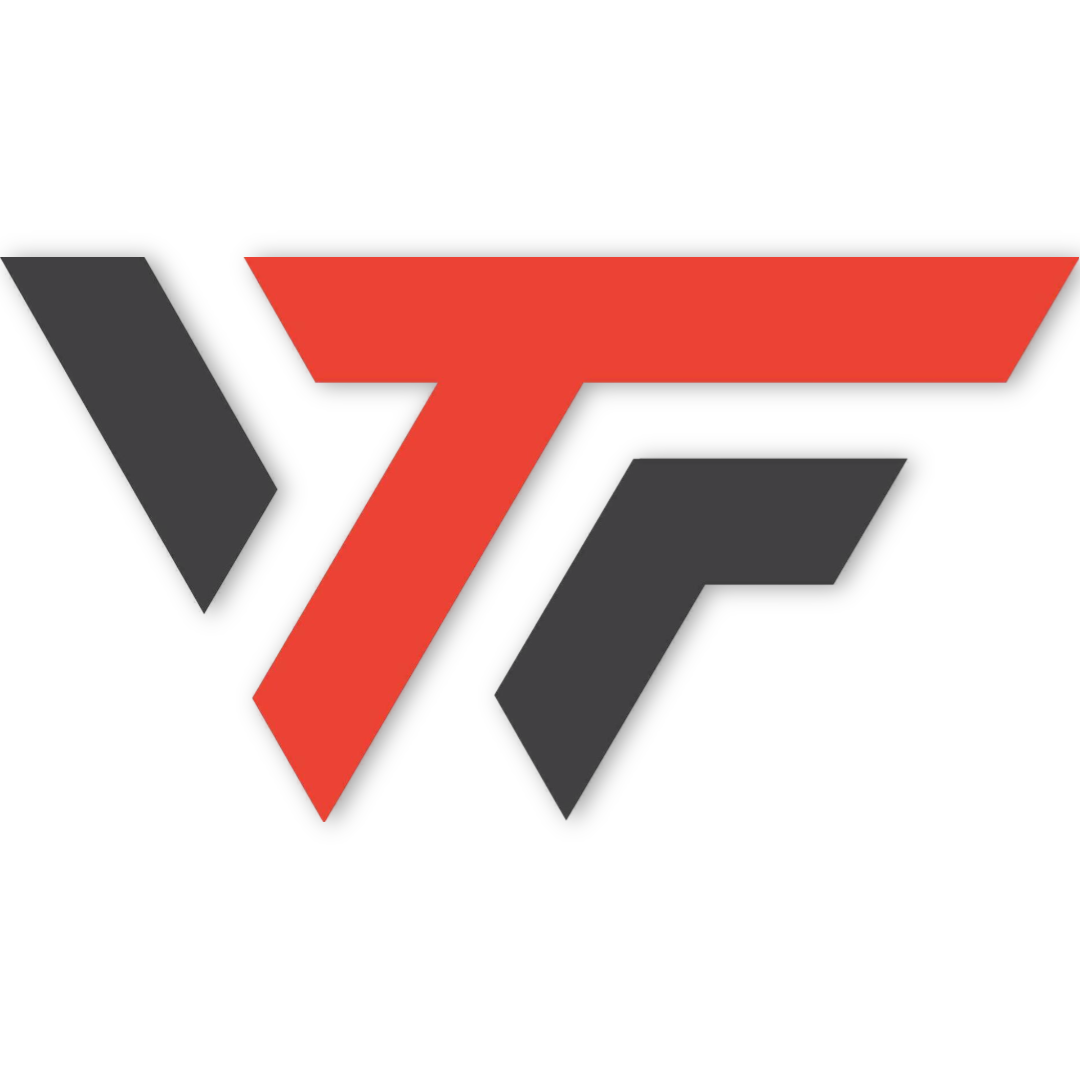
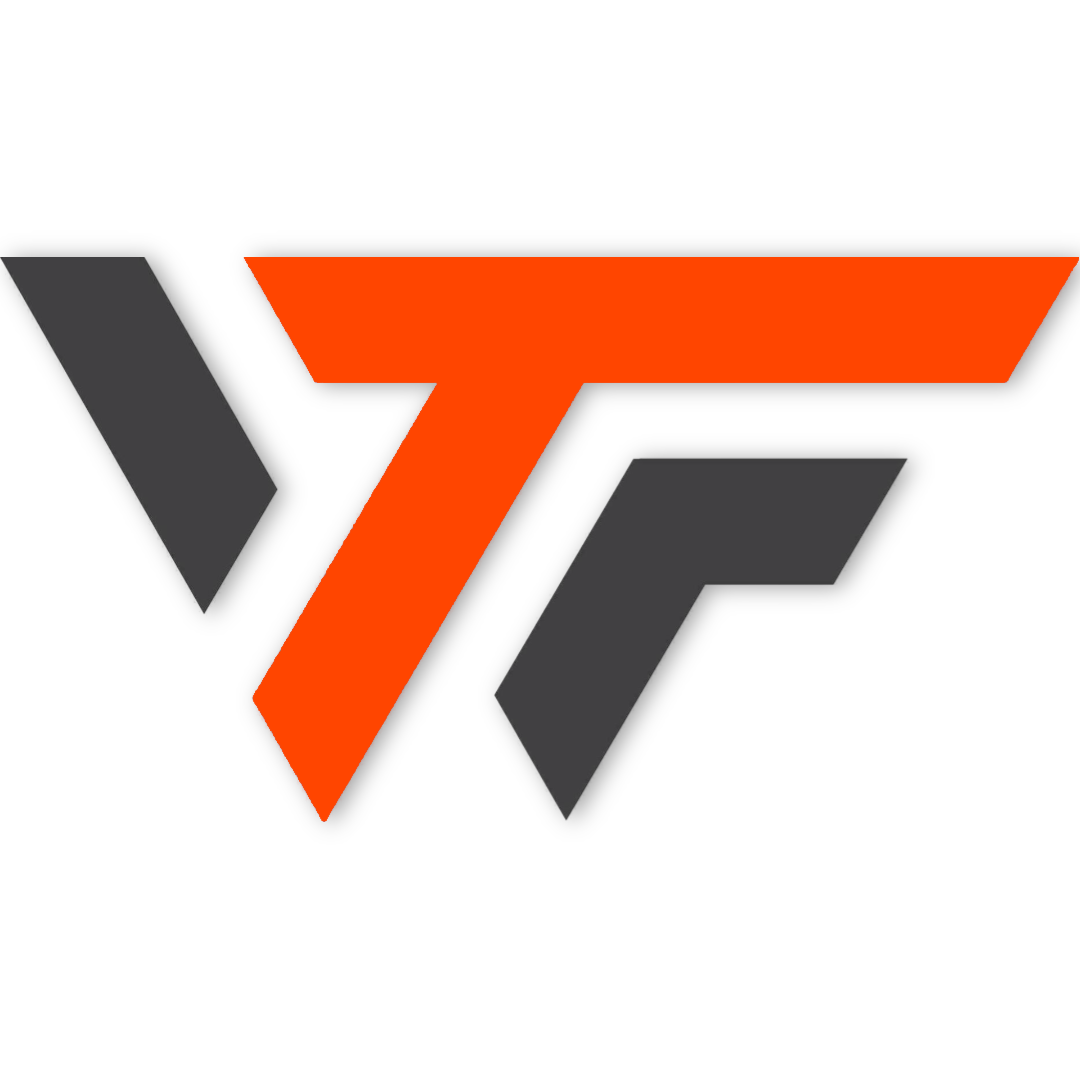
Header

Changed region(s): [[0.2139, 0.2139, 1.0, 0.7639]]

diff --git a/src/app/public-pages/header/header.component.html b/src/app/public-pages/header/header.component.html
@@ -1,0 +1,60 @@
+<header class="mat-header">
+  <mat-toolbar>
+    <!-- Logo -->
+    <a href="#"><img src="img/wft.png" class="logo" /></a>
+
+    <!-- Spacer to push navigation to the right -->
+    <span class="spacer"></span>
+
+    <!-- Navigation Links -->
+    <nav class="nav-links" fxHide fxShow.gt-sm>
+      <button mat-button [routerLink]="'/home'" routerLinkActive="active">
+        Home
+      </button>
+      <button mat-button [routerLink]="'/aboutus'" routerLinkActive="active">
+        About Us
+      </button>
+      <button mat-button [routerLink]="'/services'" routerLinkActive="active">
+        Services
+      </button>
+      <button mat-button [routerLink]="'/bmi'" routerLinkActive="active">
+        BMI Calculator
+      </button>
+      <button mat-button [routerLink]="'/ourteam'" routerLinkActive="active">
+        Our Team
+      </button>
+      <button mat-button [routerLink]="'/pricing'" routerLinkActive="active">
+        Pricing
+      </button>
+      <button mat-button [routerLink]="'/contactus'" routerLinkActive="active">
+        Contact Us
+      </button>
+      <button mat-button [routerLink]="'/login'" routerLinkActive="active">
+        Login
+      </button>
+    </nav>
+
+    <!-- Menu Icon for smaller devices -->
+    <button
+      mat-icon-button
+      class="menu-icon"
+      aria-label="Menu"
+      fxShow
+      fxHide.gt-sm
+      [matMenuTriggerFor]="menu"
+    >
+      <mat-icon>menu</mat-icon>
+    </button>
+  </mat-toolbar>
+</header>
+
+<mat-menu #menu="matMenu">
+  <button mat-menu-item [routerLink]="'/home'">Home</button>
+  <button mat-menu-item [routerLink]="'/aboutus'">About Us</button>
+  <button mat-menu-item [routerLink]="'/services'">Services</button>
+  <button mat-menu-item [routerLink]="'/bmi'">BMI Calculator</button>
+  <button mat-menu-item [routerLink]="'/ourteam'">Our Team</button>
+  <button mat-menu-item [routerLink]="'/pricing'">Pricing</button>
+  <button mat-menu-item [routerLink]="'/contactus'">Contact Us</button>
+  <button mat-menu-item [routerLink]="'/login'">Login</button>
+</mat-menu>

diff --git a/src/app/app.routes.ts b/src/app/app.routes.ts
@@ -1,3 +1,25 @@
 import { Routes } from '@angular/router';
+import { HomeComponent } from './public-pages/home/home.component';
+import { AboutUsComponent } from './public-pages/about-us/about-us.component';
+import { ServicesComponent } from './public-pages/services/services.component';
+import { BmiComponent } from './public-pages/bmi/bmi.component';
+import { OurTeamComponent } from './public-pages/our-team/our-team.component';
+import { PricingComponent } from './public-pages/pricing/pricing.component';
+import { ContactUsComponent } from './public-pages/contact-us/contact-us.component';
+import { LoginComponent } from './public-pages/login/login.component';
+import { RegisterComponent } from './public-pages/register/register.component';
+import { PageNotFoundComponent } from './public-pages/page-not-found/page-not-found.component';
 
-export const routes: Routes = [];
+export const routes: Routes = [
+  { path: '', redirectTo: '/home', pathMatch: 'full' },
+  { path: 'home', component: HomeComponent },
+  { path: 'aboutus', component: AboutUsComponent },
+  { path: 'services', component: ServicesComponent },
+  { path: 'bmi', component: BmiComponent },
+  { path: 'ourteam', component: OurTeamComponent },
+  { path: 'pricing', component: PricingComponent },
+  { path: 'contactus', component: ContactUsComponent },
+  { path: 'login', component: LoginComponent },
+  { path: 'register', component: RegisterComponent },
+  { path: '**', component: PageNotFoundComponent },
+];

diff --git a/src/app/public-pages/header/header.component.ts b/src/app/public-pages/header/header.component.ts
@@ -1,0 +1,36 @@
+import { CommonModule } from '@angular/common';
+import { Component, ViewChild } from '@angular/core';
+import { MatMenuModule, MatMenuTrigger } from '@angular/material/menu';
+import { MatIconModule } from '@angular/material/icon';
+import { RouterModule } from '@angular/router';
+import { MatToolbarModule } from '@angular/material/toolbar';
+import { MatButtonModule } from '@angular/material/button';
+import { BreakpointObserver } from '@angular/cdk/layout';
+@Component({
+  selector: 'app-header',
+  imports: [
+    CommonModule,
+    MatMenuModule,
+    MatIconModule,
+    RouterModule,
+    MatToolbarModule,
+    MatButtonModule,
+  ],
+  templateUrl: './header.component.html',
+  styleUrl: './header.component.css',
+})
+export class HeaderComponent {
+  @ViewChild(MatMenuTrigger) menuTrigger!: MatMenuTrigger;
+
+  constructor(private breakpointObserver: BreakpointObserver) {
+    // Listen for changes in the viewport size
+    this.breakpointObserver
+      .observe(['(min-width: 961px)'])
+      .subscribe((result) => {
+        if (result.matches && this.menuTrigger) {
+          // Close the menu if screen size exceeds 960px
+          this.menuTrigger.closeMenu();
+        }
+      });
+  }
+}

diff --git a/src/app/public-pages/header/header.component.css b/src/app/public-pages/header/header.component.css
@@ -1,0 +1,64 @@
+.mat-header {
+  margin-top: 1rem;
+  display: flex;
+  flex-direction: column;
+  z-index: 1000;
+}
+
+mat-toolbar {
+  display: flex;
+  justify-content: space-between;
+  align-items: center;
+  background: transparent;
+  padding: 0 16px;
+}
+
+.logo {
+  max-width: 150px; /* Adjust logo size */
+  height: auto;
+  padding-left: 3rem;
+}
+
+.spacer {
+  flex: 1; /* Push nav links to the right */
+}
+
+.nav-links button {
+  text-transform: uppercase;
+}
+
+.menu-icon {
+  display: none;
+}
+
+.active {
+  background-color: var(--bg-primary);
+}
+
+/* Responsive Design */
+@media (max-width: 960px) {
+  .nav-links {
+    display: none; /* Hide navigation links on small devices */
+  }
+
+  .menu-icon {
+    display: block;
+    margin-right: 2.5rem;
+    position: relative;
+  }
+
+  /* Increase the size of the mat-icon */
+  .menu-icon .mat-icon {
+    position: absolute;
+    transform: translate(-2rem, -1rem);
+    font-size: 32px;
+    width: 4rem;
+    height: 4rem;
+  }
+  ::ng-deep .mat-mdc-menu-content {
+    background-color: var(--bg-main);
+  }
+  .mat-mdc-menu-item:hover {
+    background-color: var(--bg-primary) !important;
+  }
+}

diff --git a/src/styles.css b/src/styles.css
@@ -3,8 +3,31 @@
   margin: 0;
   padding: 0;
   box-sizing: border-box;
-}
-html {
   font-family: "Poppins", sans-serif;
+  /* font-size: 62.5%; */
+  list-style: none;
+  text-decoration: none;
+  color: var(--text-color);
+}
+body {
   font-size: 62.5%;
+  background-color: var(--bg-main) !important;
+}
+:root {
+  --bg-main: #292929;
+  --bg-primary: #ff4500;
+  --bg-secondary: brown;
+  --bg-tertiary: olive;
+  --text-color: #d6d6d6;
+  --heading-main: 9rem;
+  --heading-section: 7rem;
+  --heading-para: 3rem;
+  --normal-para: 1.6rem;
+}
+app-header {
+  position: sticky;
+  top: 0; /* Sticks the header to the top of the viewport */
+  z-index: 1000; /* Ensures it stays above other elements */
+  display: block; /* Ensures proper rendering as a block element */
+  box-shadow: 0px 4px 6px rgba(0, 0, 0, 0.1); /* Optional: Adds shadow */
 }

diff --git a/src/app/app.component.ts b/src/app/app.component.ts
@@ -1,9 +1,10 @@
 import { Component } from '@angular/core';
 import { RouterOutlet } from '@angular/router';
+import { HeaderComponent } from './public-pages/header/header.component';
 
 @Component({
   selector: 'app-root',
-  imports: [RouterOutlet],
+  imports: [RouterOutlet, HeaderComponent],
   templateUrl: './app.component.html',
   styleUrl: './app.component.css',
 })

diff --git a/src/app/public-pages/home/home.component.ts b/src/app/public-pages/home/home.component.ts
@@ -1,0 +1,10 @@
+import { Component } from '@angular/core';
+import { HeaderComponent } from '../header/header.component';
+
+@Component({
+  selector: 'app-home',
+  imports: [HeaderComponent],
+  templateUrl: './home.component.html',
+  styleUrl: './home.component.css',
+})
+export class HomeComponent {}

diff --git a/src/app/public-pages/page-not-found/page-not-found.component.ts b/src/app/public-pages/page-not-found/page-not-found.component.ts
@@ -1,0 +1,11 @@
+import { Component } from '@angular/core';
+
+@Component({
+  selector: 'app-page-not-found',
+  imports: [],
+  templateUrl: './page-not-found.component.html',
+  styleUrl: './page-not-found.component.css'
+})
+export class PageNotFoundComponent {
+
+}

diff --git a/src/app/public-pages/contact-us/contact-us.component.ts b/src/app/public-pages/contact-us/contact-us.component.ts
@@ -1,0 +1,11 @@
+import { Component } from '@angular/core';
+
+@Component({
+  selector: 'app-contact-us',
+  imports: [],
+  templateUrl: './contact-us.component.html',
+  styleUrl: './contact-us.component.css'
+})
+export class ContactUsComponent {
+
+}

diff --git a/src/app/public-pages/register/register.component.ts b/src/app/public-pages/register/register.component.ts
@@ -1,0 +1,11 @@
+import { Component } from '@angular/core';
+
+@Component({
+  selector: 'app-register',
+  imports: [],
+  templateUrl: './register.component.html',
+  styleUrl: './register.component.css'
+})
+export class RegisterComponent {
+
+}

diff --git a/src/app/public-pages/services/services.component.ts b/src/app/public-pages/services/services.component.ts
@@ -1,0 +1,11 @@
+import { Component } from '@angular/core';
+
+@Component({
+  selector: 'app-services',
+  imports: [],
+  templateUrl: './services.component.html',
+  styleUrl: './services.component.css'
+})
+export class ServicesComponent {
+
+}

diff --git a/src/app/public-pages/about-us/about-us.component.ts b/src/app/public-pages/about-us/about-us.component.ts
@@ -1,0 +1,11 @@
+import { Component } from '@angular/core';
+
+@Component({
+  selector: 'app-about-us',
+  imports: [],
+  templateUrl: './about-us.component.html',
+  styleUrl: './about-us.component.css'
+})
+export class AboutUsComponent {
+
+}
